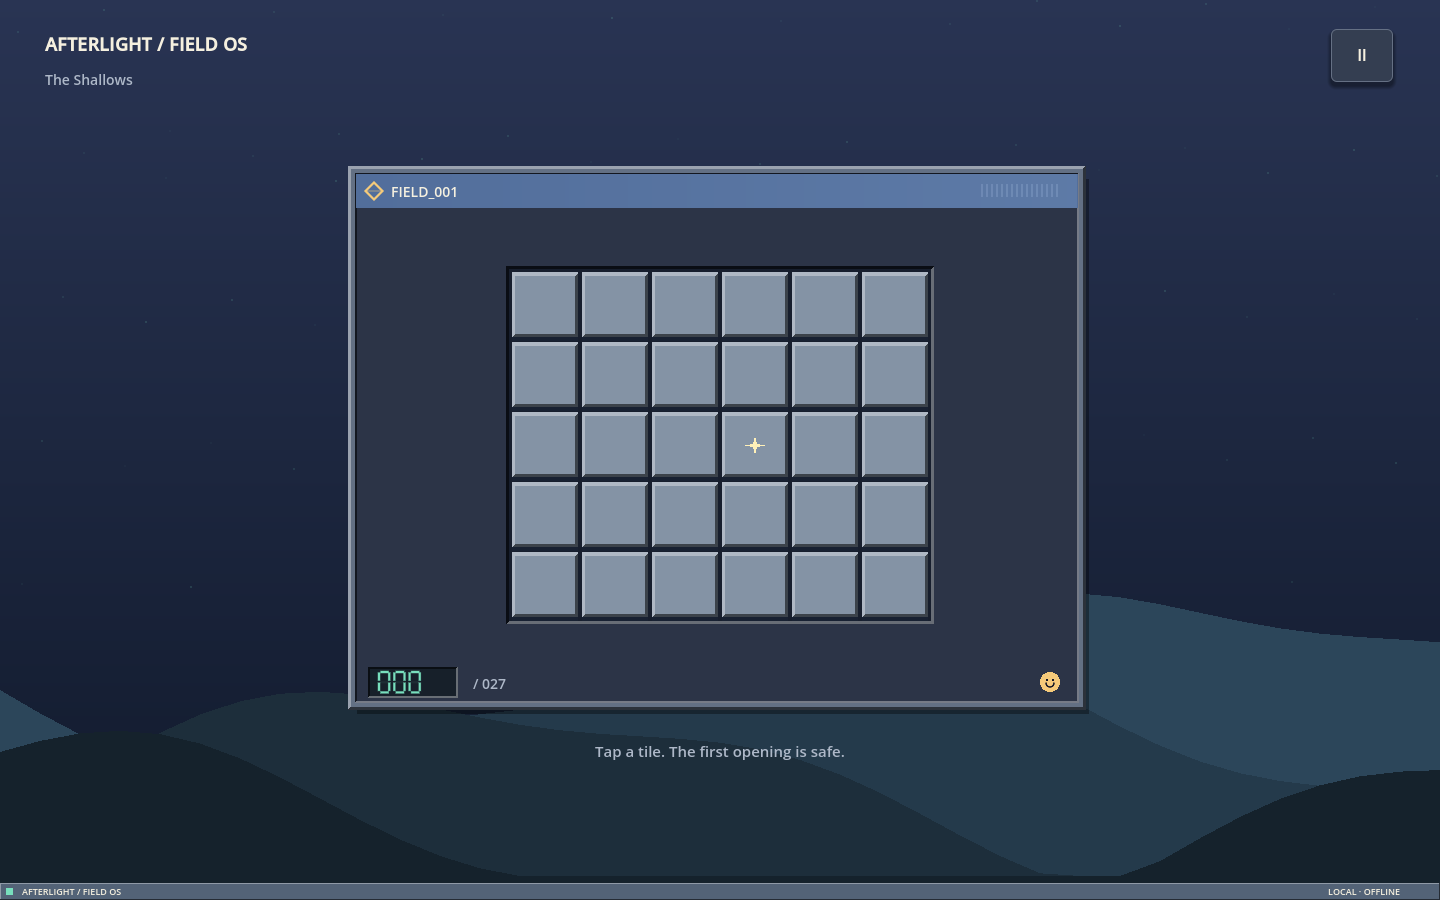
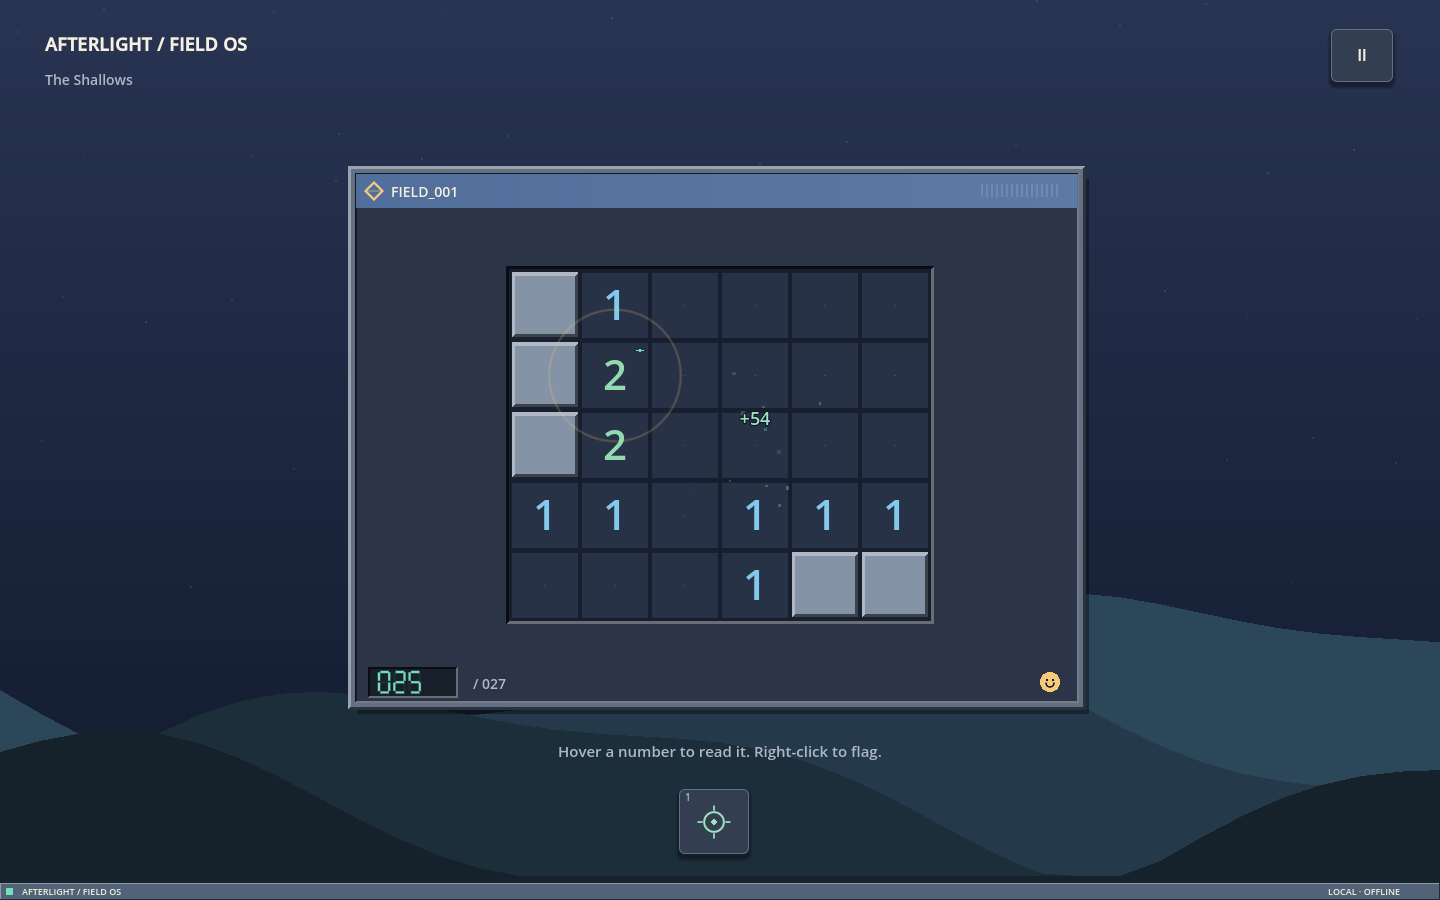
Finalize clue readability and verify Afterlight 1.1 release package

Changed region(s): [[0.3438, 0.28, 0.6562, 0.6844], [0.4062, 0.8089, 0.5938, 0.84], [0.4688, 0.9022, 0.5, 0.9333]]

diff --git a/docs/STATUS.md b/docs/STATUS.md
@@ -1,31 +1,26 @@
-# Delivery state
+# Delivery state — Afterlight 1.1
 
-## Request
-Build a polished Minesweeper incremental game with a substantial campaign, qualitative upgrades, full menus/settings/saving, native playtests and visual iteration. Checkpoint to Git regularly. The inherited process notes have been read and adapted.
+## Current build
+The integrated revision is complete on `codex/afterlight`. Main remains unchanged pending player review. Standalone Windows and Compatibility Web exports are under ignored `builds/`; the Windows archive is `builds/Afterlight-1.1.0-Windows.zip`. No store integration was performed.
 
-## Milestones
-- [x] Repository conventions, design direction, research.
-- [x] Pure board logic, progression, economy and tests: 71,004 checks pass.
-- [x] Complete visual game, menus, upgrades, procedural audio and animation.
-- [x] Campaign content, save resilience, accessibility and endings.
-- [x] Native scripted playtests, screenshots, balance and visual iteration.
-- [x] Final regression, packaging documentation, committed delivery.
+## Design delivered
+- Modern Windows 95/XP-inspired field terminal: bevelled tiles, inset counters, procedural evening scenery and animated feedback.
+- A quiet 6 × 5 opening; Pulse appears after opening the field, Grow and currencies after its first clear. Owned equipment introduces further controls. Hover help and animated demonstrations replace permanent instruction panels.
+- Fifty discoveries on six branches from a central lens. Tools change targeting, footprints, excavation, resource loops and fleet behaviour.
+- Six regions, 96 sites and 628 strata. Larger, denser and plated fields give stronger equipment new work. Twelve optional mastery trials, a campaign ending and endless exploration remain available.
+- Main menu, pause, settings, keyboard play, flag mode, reduced motion, separate music/SFX controls, fullscreen and high-contrast clues. Exact mid-field saves retain a validated backup and migrate version-1 saves.
+- All art, textures, music and sound are procedural and repository-owned. No image/audio generation service or downloaded media was used.
 
-## Decisions
-One integrated delivery branch; no parallel prototype variants. Procedural vector artwork and synthesis avoid an asset bottleneck. Separate test user data and invisible native rendering preserve the shared desktop. Human pacing remains an estimate until externally tested.
+## Verification
+- 71,127 core/persistence assertions and 189 native input/state/layout checks pass. Twenty-seven viewport captures were inspected at 960 × 600, 1440 × 900 and 1920 × 1080.
+- An agent played the opening using visible clues, flags and chords, then purchased the first two upgrades through native input. This is not independent human playtesting.
+- Three complete campaign simulations acquire all fifty discoveries without solver/tool strikes or economic dead ends. One-second policies take 175.7 and 173.0 minutes; a three-second policy takes 344.0 minutes. These are pacing models, not verified human durations.
+- On the same stratum, early/mid/complete equipment takes 100/12/5 simulated seconds, demonstrating power growth against fixed work.
+- Both release exports succeed. The actual Windows executable passes isolated native boot, render, input, tree purchase, save and reload checks. Browser runtime and persistence remain unverified.
+- A 180-frame late-game sample records 6.9 ms median / 8.4 ms p95 between process frames on an RTX 4090. This is not a minimum hardware claim.
+- The Windows archive includes only the tested executable, PCK and player README; its entries are checked against those files.
 
-All imagery and audio must come from procedural code; do not use image or audio generation services. The current implementation follows that requirement.
+## Working decisions and remaining validation
+Use one integrated branch, small tested commits and frequent pushes. The inherited process notes have been read and adapted; retain them in `process_distillation/`. Keep native tests muted on a separate Windows desktop and test saves under `test_runs/`. Stop only launcher-owned processes.
 
-## Current verification
-71,004 core/persistence checks and 270 native input/state/layout checks pass. Twenty-two captured states were visually reviewed and corrected. An additional opening-field playthrough used only visible clues, flags and chords. Four complete campaign simulations and all twelve trials complete without solver strikes or economic dead ends. A moderate scripted policy estimates 79.6 minutes for the campaign plus 39.2 for mastery (118.8 total); this is a model, not a measured human session.
-
-Standalone Windows and Compatibility Web exports are generated under ignored `builds/`. The Windows release has its own isolated native render/input/save smoke test. Web runtime is unverified. The clean Windows archive contains only the executable, PCK and player README. Full evidence and limits are recorded in `docs/QA.md`.
-
-Delivery is on `codex/afterlight`; gameplay has not been merged into main, respecting the inherited player-review workflow. No store work was performed. All artwork and sound are procedural. Future changes should begin with the player trying this integrated build, rather than creating alternative prototypes.
-
-## Revision 1.1 delivery work
-The requested visual and progression revision supersedes the 1.0 sign-off. Implemented: modern retro field terminal, a 6 × 5 opening with staged disclosure, contextual hover help, fifty branching discoveries with animated previews, deeper sites and excavation plating, and exact version-1 save migration.
-
-Current checks: 71,127 core/persistence assertions; 189 native input/state/layout checks; 27 reviewed captures. The native opening was also played from visible clues through the first two purchases. Complete fast campaigns take 175.7 and 173.0 modelled minutes; the three-second policy takes 344.0. All reach fifty discoveries. On an identical test stratum, early/mid/complete equipment requires 100/12/5 seconds. No independent human duration or enjoyment claim is made.
-
-UI and game rules are complete. The new Windows/Web exports, final release smoke, archive and final repository checkpoint are the remaining delivery steps. All art/audio remain procedural. Details: `docs/QA.md`, `docs/DESIGN.md` and `docs/TESTING.md`.
+No implementation or packaging work remains for this revision. Independent human enjoyment/pacing feedback, lower-end hardware testing and browser runtime validation remain release-quality evidence to gather; none is claimed complete. Begin future changes from this integrated build. Detailed evidence: `docs/QA.md`; design: `docs/DESIGN.md`; commands: `docs/TESTING.md`. The superseded 1.0 quality record is retained in `docs/QA-1.0.md`.

diff --git a/docs/QA.md b/docs/QA.md
@@ -21,9 +21,9 @@ An identical site-49 stratum provides a separate power check: early equipment ne
 - A fresh field has one non-board button: Pause. Pulse follows the opening, Grow and currencies follow the first clear; additional tool buttons require ownership.
 - An agent played the opening from visible clues using flags and chords, purchased Survey lens, continued to site 2 and purchased Twin pulse. Seventeen harness actions were recorded, including setup and quit. This is additional agent play, not a human session.
 - Inspected and corrected crossed tree paths, drone docking over title text, dense plate stripes, an oversized debrief, tooltip grammar, text bounds and backdrop polygon triangulation. The help pages now pair short explanations with animated diagrams.
-- Procedural keycaps and the sky gradient are cached by the renderer. A 180-frame native sample after this change measured roughly 6.8 ms median and 13.1 ms p95 between process frames, with 1,135 draw calls on an RTX 4090. These are machine-specific observations, not minimum hardware claims.
+- Procedural keycaps and the sky gradient are cached by the renderer. The final 180-frame native sample measured roughly 6.9 ms median and 8.4 ms p95 between process frames, with 1,135 draw calls on an RTX 4090. These are machine-specific observations, not minimum hardware claims.
 
 ## Assets and packaging
 All geometry, textures, icons, music and sound remain procedural and repository-owned. No image/audio generation service or downloaded media was used. Six oscillator-based scores and their synthesis source are retained. In-game engine and library licences remain available.
 
-The Windows release must pass its own isolated native boot/input/save/reload smoke after export. Compatibility Web export is provided; browser runtime and persistence have not been validated. Player reports remain local; tests never touch normal saves. Store integration is outside scope.
+Both final exports succeed. The actual Windows executable passes its own isolated native boot, rendering, input, tree purchase, save and reload smoke test, with `editor=false`. The Windows archive contains only that executable, its PCK and the player README; each entry is verified against the exported files. Compatibility Web export is provided; browser runtime and persistence have not been validated. Player reports remain local; tests never touch normal saves. Store integration is outside scope.
